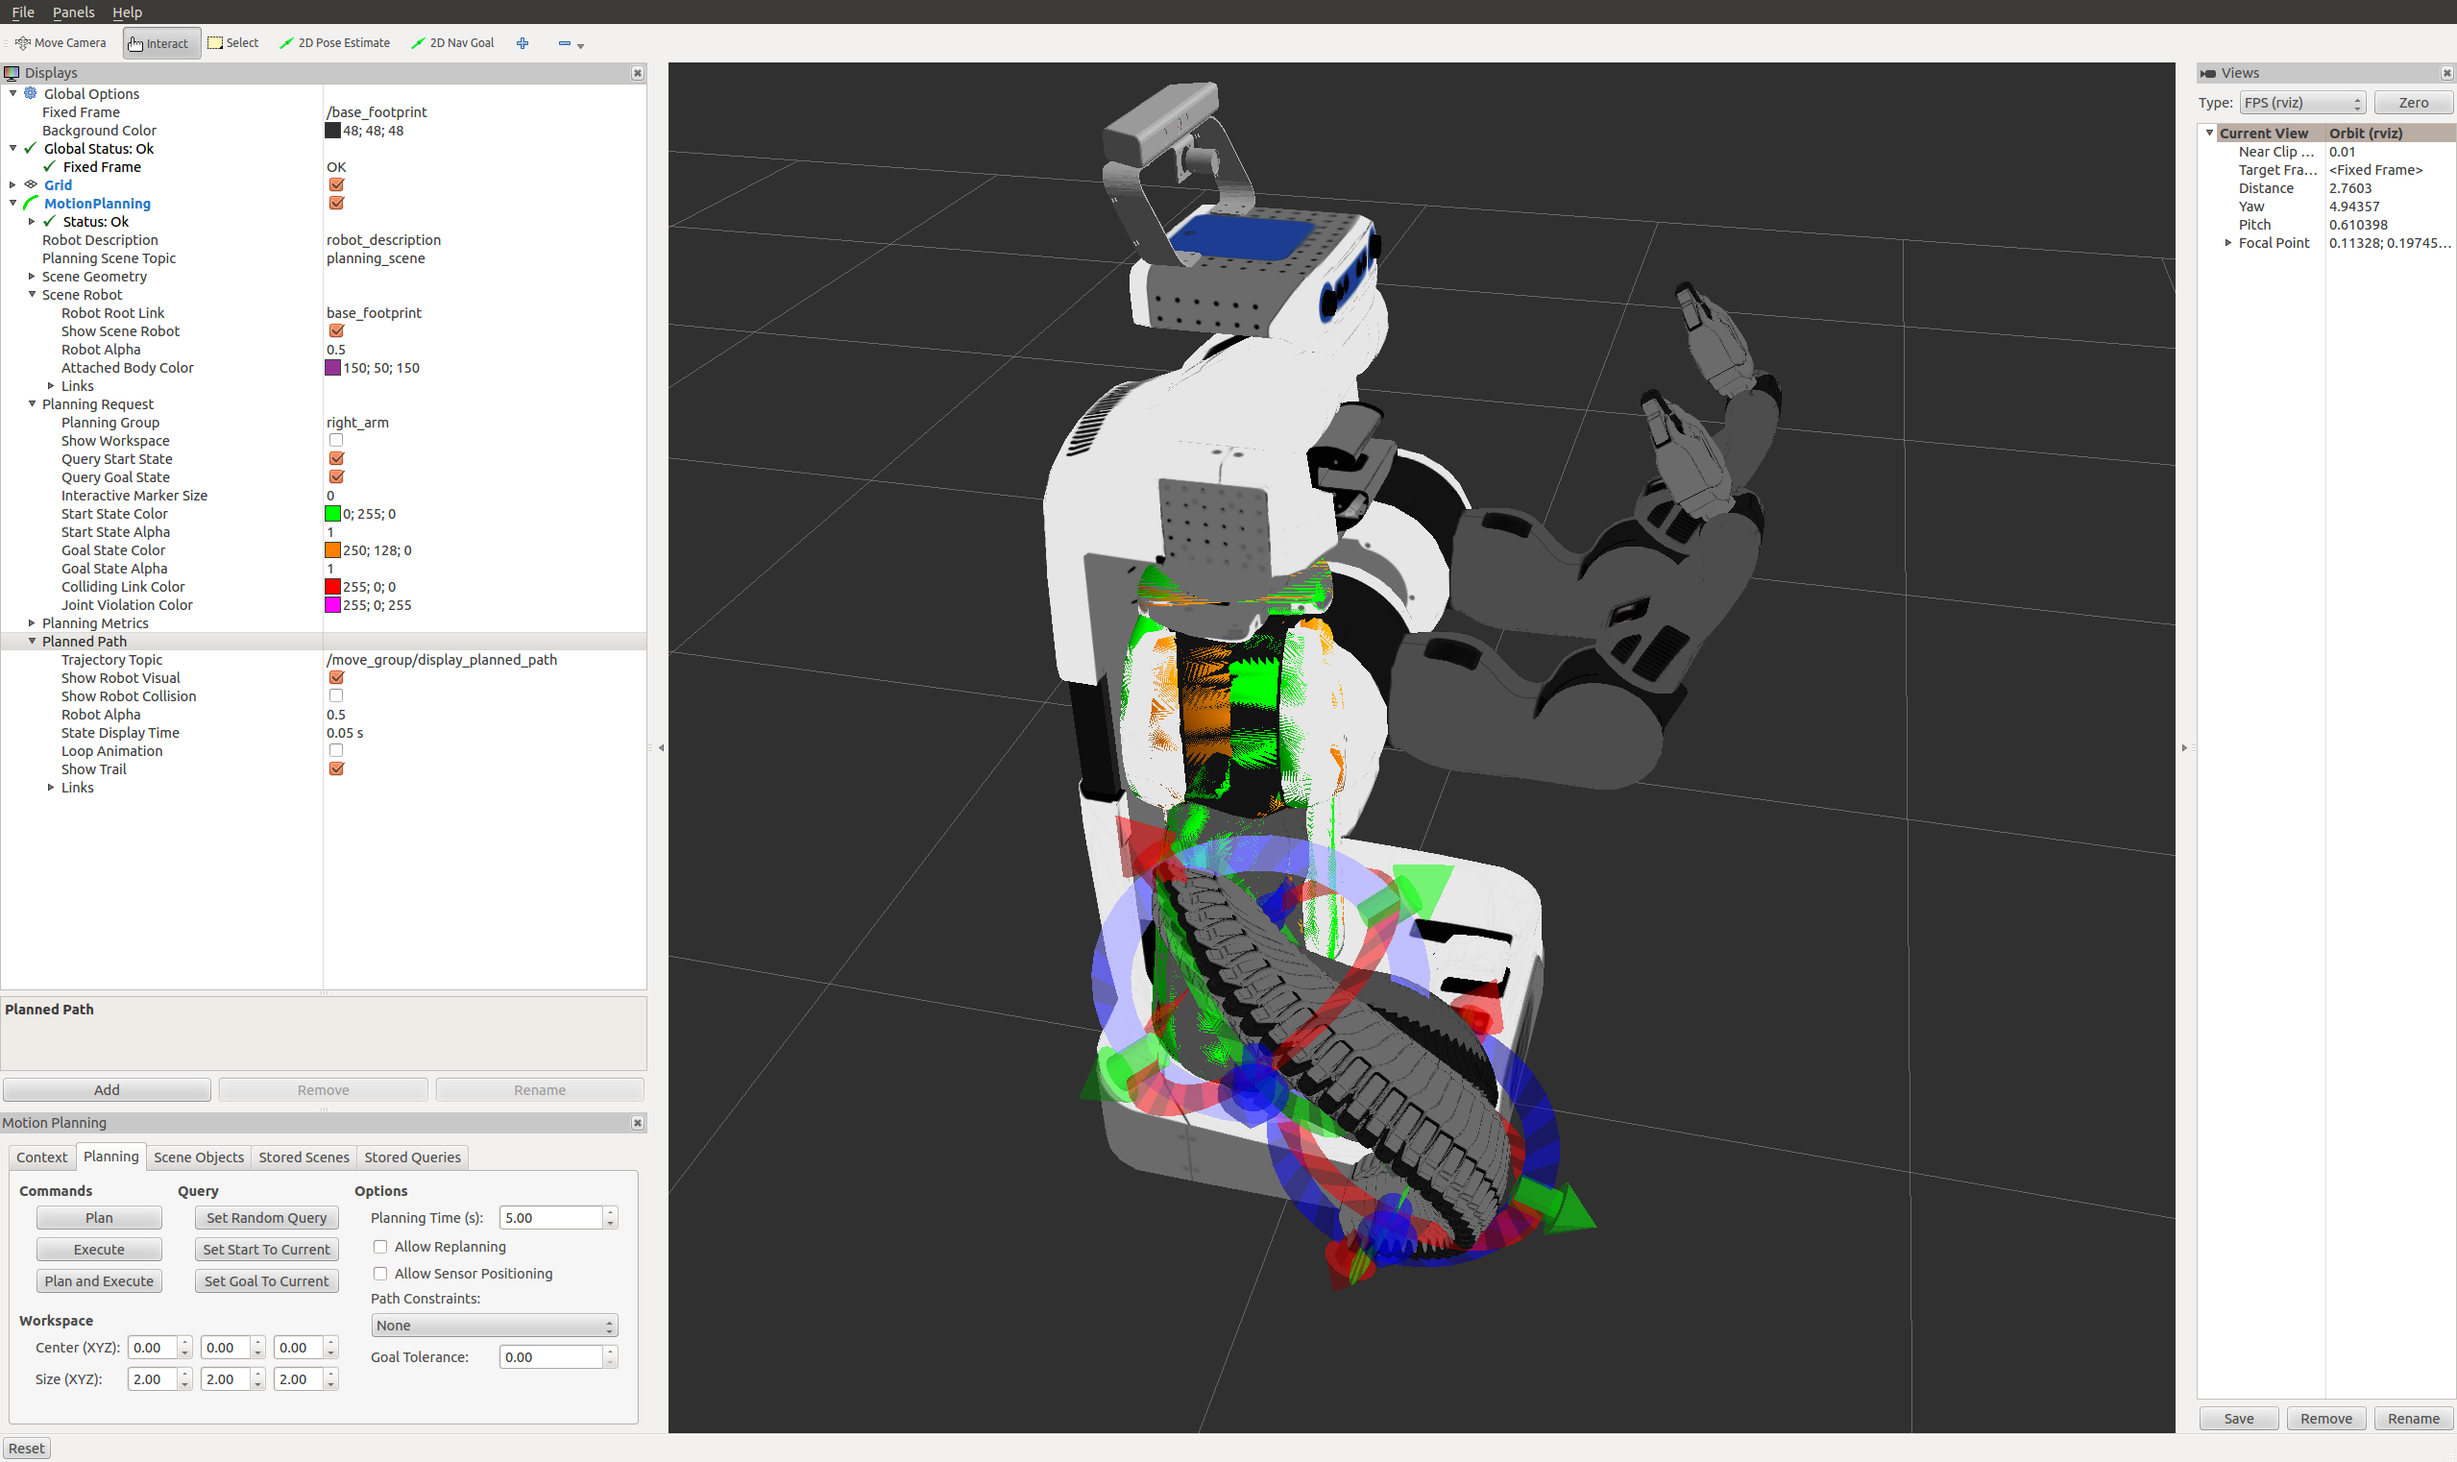
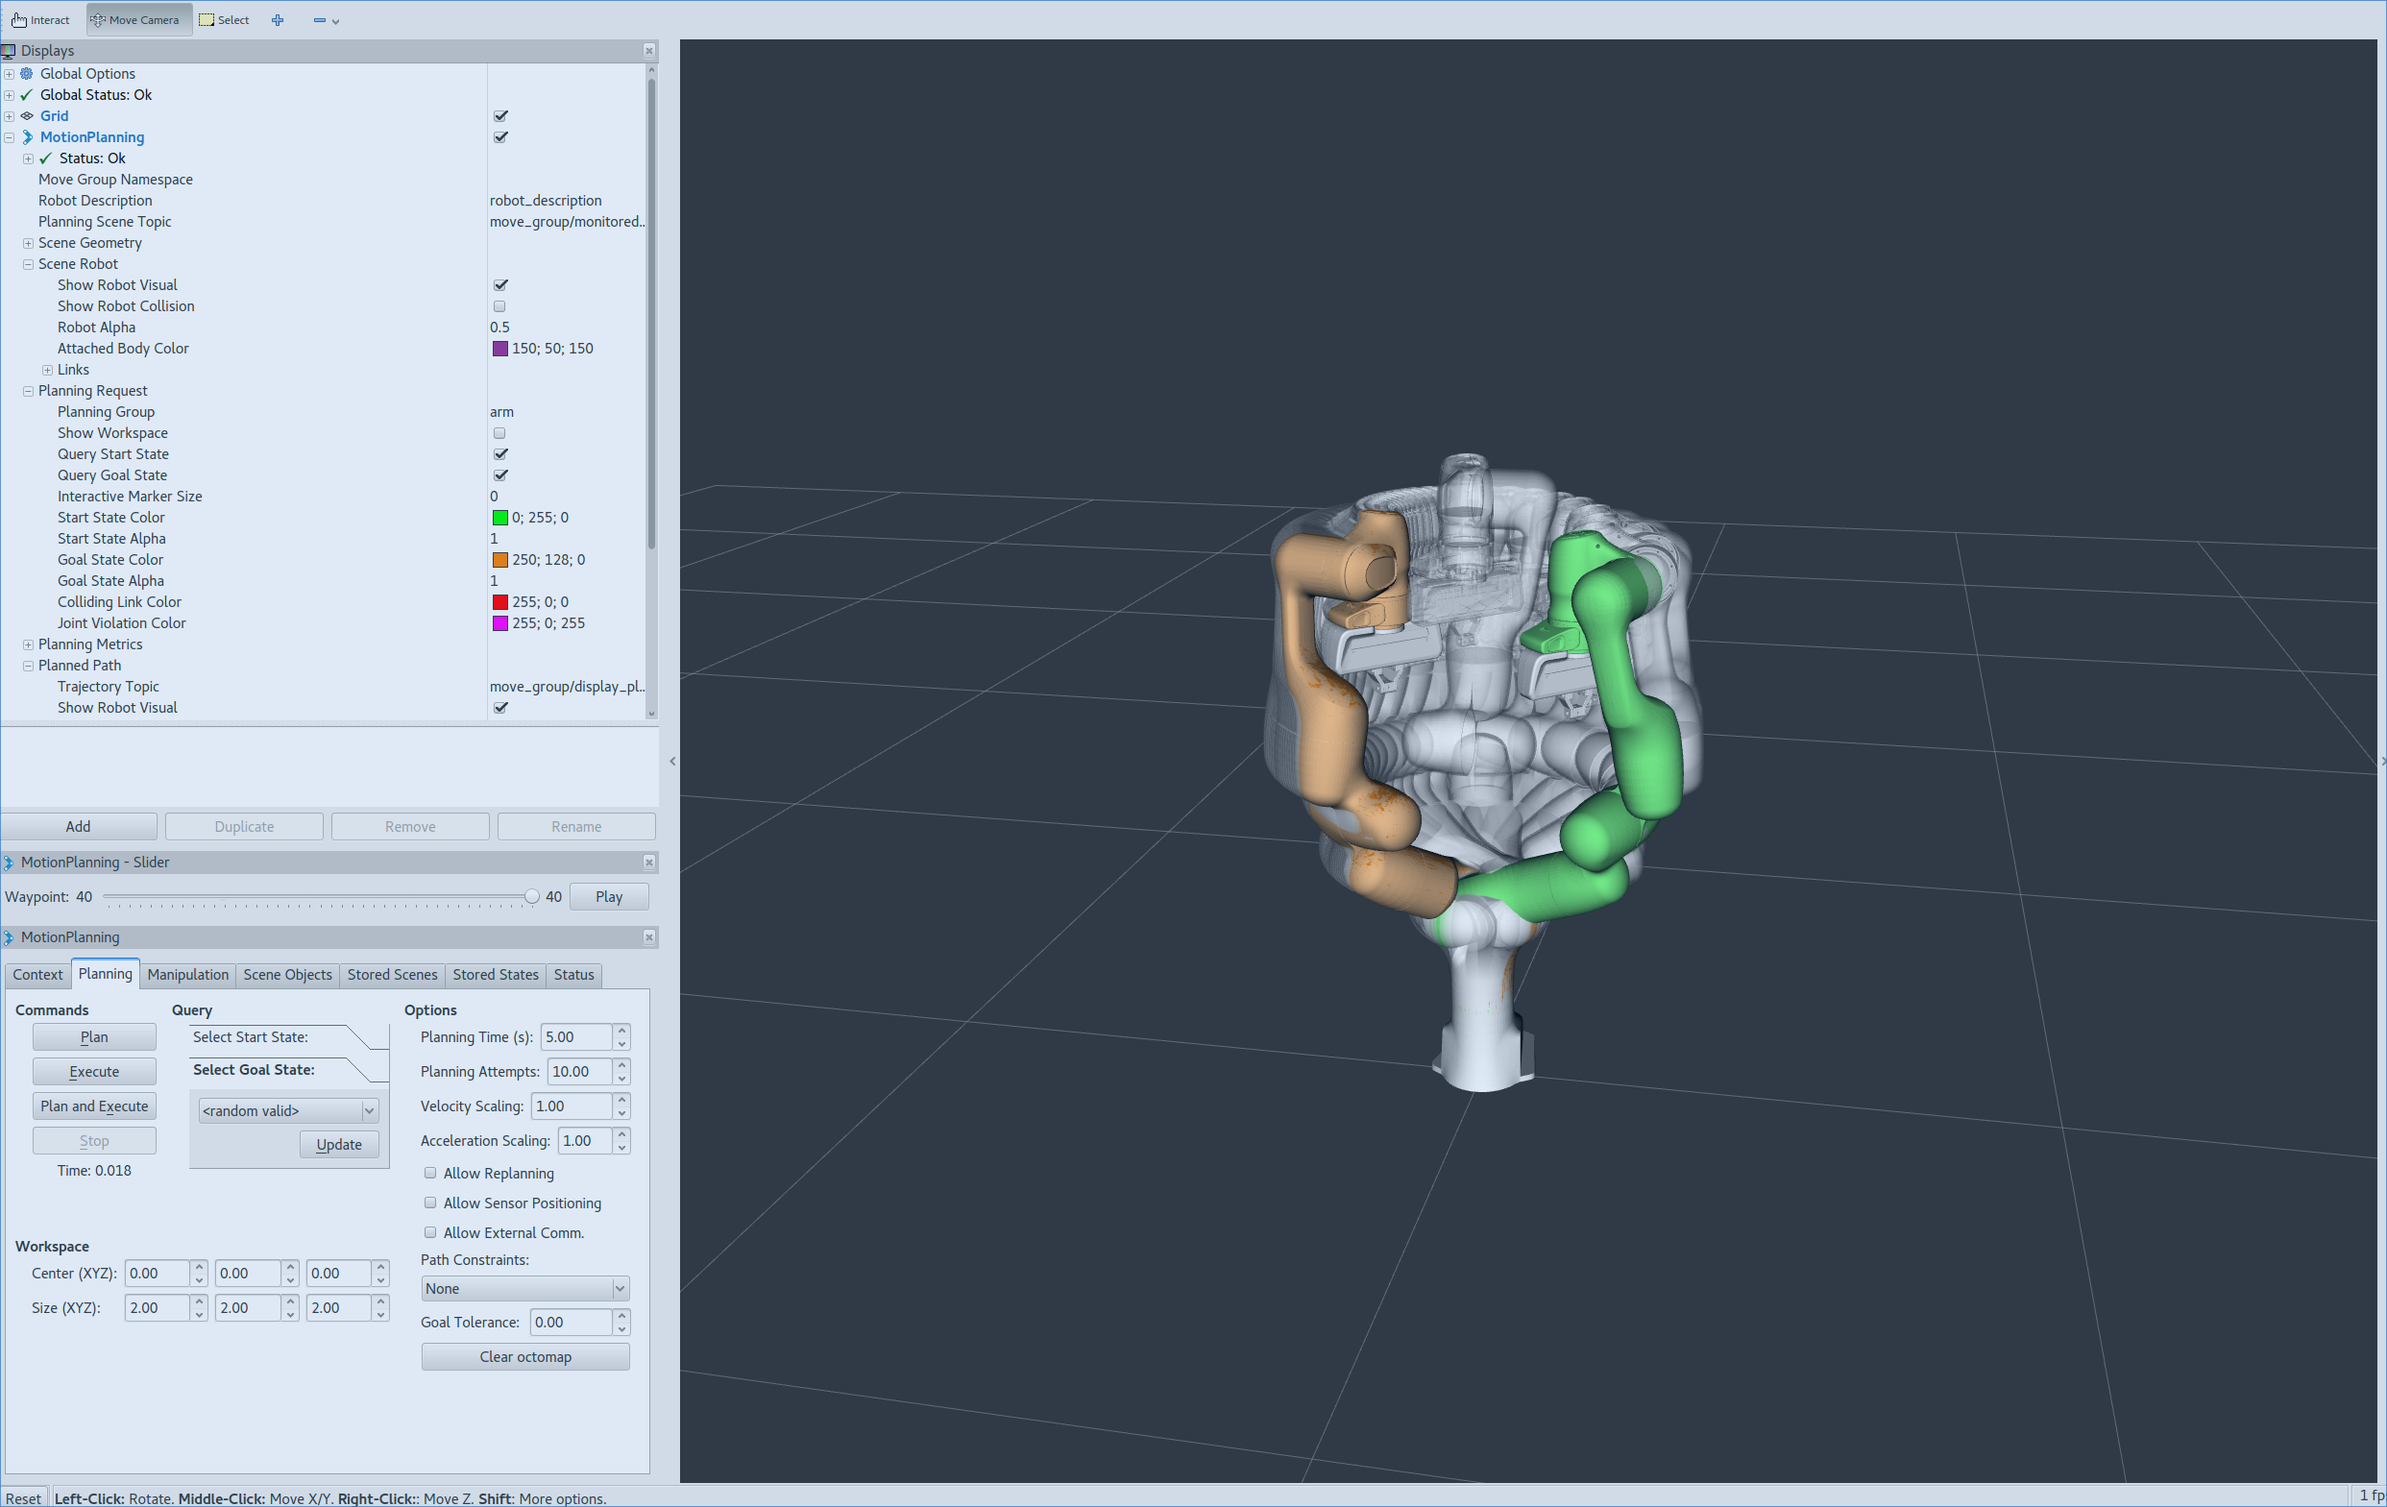
Viz tutorial (#1)
* adding rosdep install and catkin config to instructions
* updating visualization tutorial

diff --git a/doc/ros_visualization/visualization_tutorial.rst b/doc/ros_visualization/visualization_tutorial.rst
@@ -9,16 +9,16 @@ robot. We will explore the plugin in this tutorial.
 Pre-requisites
 ---------------
 
-To use the Rviz plugin, a ``moveit_ROBOT_config`` package must exist containing all the necessary
+To use the Rviz plugin, a ``ROBOT_moveit_config`` package must exist containing all the necessary
 configurations to use MoveIt!. If you are using a standard robot, it is highly likely a MoveIt!
 config package already exists, e.g. the PR2, Baxter, UR5, etc. The recommended robot to run these
-tutorials is currently the PR2. If you want to try these tutorials with your own
+tutorials is currently the Panda. If you want to try these tutorials with your own
 custom robot see the  `MoveIt! Setup Assistant tutorial
 <../setup_assistant/setup_assistant_tutorial.html>`_, otherwise follow these next steps:
 
-**Use Default PR2 MoveIt! Configuration**
+**Use Default Panda MoveIt! Configuration**
 
-Note: This tutorial does **not** require you to actually have a PR2 robot, it just needs a set of
+Note: This tutorial does **not** require you to actually have a Panda robot, it just needs a set of
 working robot model files.
 
 If you don't yet have a catkin workspace for this tutorial, create one now::
@@ -28,8 +28,10 @@ If you don't yet have a catkin workspace for this tutorial, create one now::
 
 Build and source the moveit_config package::
 
-  git clone https://github.com/davetcoleman/pr2_moveit_config.git
+  git clone https://github.com/PickNikRobotics/panda_moveit_config.git
+  rosdep install --from-paths . --ignore-src --rosdistro kinetic
   cd ..
+  catkin config --extend /opt/ros/kinetic --cmake-args -DCMAKE_BUILD_TYPE=Release
   catkin build
   . ~/ws_moveit/devel/setup.bash
 
@@ -40,7 +42,7 @@ Step 1: Launch the demo and Configure the Plugin
 
 * Launch the demo::
 
-   roslaunch pr2_moveit_config demo.launch
+   roslaunch panda_moveit_config demo.launch
 
 * If you are doing this for the first time, you will have to add the Motion Planning Plugin.
 
@@ -53,14 +55,14 @@ Step 1: Launch the demo and Configure the Plugin
 
 * In the "Global Options" tab of the "Displays" subwindow, set the **Fixed Frame** field to "/odom_combined"
 
-* Now, you can start configuring the Plugin for your robot (the PR2 in
+* Now, you can start configuring the Plugin for your robot (the Panda in
   this case).  Click on "MotionPlanning" within "Displays".
 
   * Make sure the **Robot Description** field is set to "robot_description"
 
   * Make sure the **Planning Scene Topic** field is set to "planning_scene".
 
-  * In **Planning Request**, change the **Planning Group** to "right_arm".
+  * In **Planning Request**, change the **Planning Group** to "arm".
 
   * Set the **Trajectory Topic** in the Planned Path tab to "/move_group/display_planned_path".
 
@@ -94,13 +96,13 @@ The display states for each of these visualizations can be toggled on and off us
 
 * Play with all these checkboxes to switch on and off different visualizations.
 
-Step 3: Interact with the PR2
+Step 3: Interact with the Panda
 -----------------------------
 
 * Press **Interact** in the top menu of rviz (Note: some tools may be
   hidden, press **+** in the top menu to add the **Interact** tool as shown below).
   You should see a couple of interactive markers appear for the
-  right arm of the PR2.
+  arm of the Panda.
 
     * One marker (corresponding to the orange colored right arm) will
       be used to set the "Goal State" for motion planning. Another
@@ -142,16 +144,15 @@ Moving out of reachable workspace
 +++++++++++++++++++++++++++++++++
 
 Note also what happens when you try to move an end-effector out of its
-reachable workspace (sometimes the access denied sign will not
-appear).
+reachable workspace.
 
 .. image:: rviz_plugin_invalid.png
    :width: 300px
 
-Step 4: Use Motion Planning with the PR2
+Step 4: Use Motion Planning with the Panda
 ----------------------------------------
 
-* Now, you can start motion planning with the PR2 in the MoveIt! Rviz Plugin.
+* Now, you can start motion planning with the Panda in the MoveIt! Rviz Plugin.
 
   * Move the Start State to a desired location.
 
@@ -183,5 +184,5 @@ You can visually introspect trajectory point by point on RViz.
 
 NOTE: Once you placed your EEF to a new goal, be sure to run `Plan` before running `Play` -- otherwise you'll see the waypoints for the previous goal if available.
 
-.. image:: pr2_moveit_pr491.png
+.. image:: panda_moveit_pr491.png
    :width: 700px
